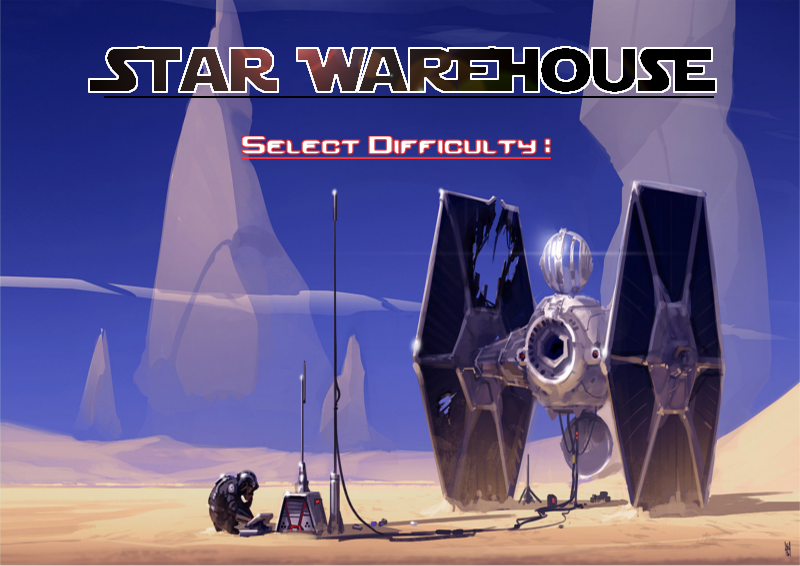
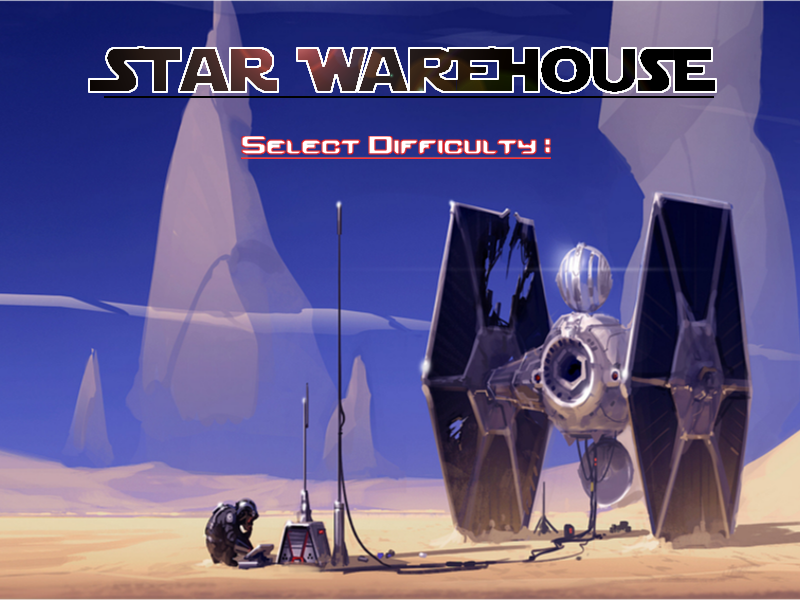
Background image sizes fix to 600 and added map

diff --git a/src/Map.java b/src/Map.java
@@ -1276,107 +1276,97 @@ public class Map implements Serializable {
 				
 			}	else if (randMapNum == 7){
 				//MEDIUM MAP 7
-				this.grid = new int[10][12];
-				for (int x=0; x < 10; x++){
+				this.grid = new int[9][12];
+				for (int x=0; x < 9; x++){
 					grid[x][0]=WALL;
 					grid[x][11]=WALL;
 				}
 				for (int y=0; y < 12; y++){
 					grid[0][y]=WALL;
-					grid[9][y]=WALL;
+					grid[8][y]=WALL;
 				}
-				grid[1][1] = WALL;
+				grid[1][1] = EMPTY;
 				grid[2][1] = WALL;
 				grid[3][1] = WALL;
 				grid[4][1] = WALL;
 				grid[5][1] = WALL;
 				grid[6][1] = WALL;
-				grid[7][1] = WALL;
-				grid[8][1] = WALL;
+				grid[7][1] = EMPTY;
 				
 				grid[1][2] = WALL;
 				grid[2][2] = WALL;
 				grid[3][2] = EMPTY;
-				grid[4][2] = WALL;
-				grid[5][2] = GOAL;
-				grid[6][2] = EMPTY;
-				grid[7][2] = GOAL;
-				grid[8][2] = WALL;
+				grid[4][2] = EMPTY;
+				grid[5][2] = EMPTY;
+				grid[6][2] = WALL;
+				grid[7][2] = EMPTY;
 				
 				grid[1][3] = WALL;
 				grid[2][3] = EMPTY;
-				grid[3][3] = EMPTY;
-				grid[4][3] = BOX;
+				grid[3][3] = BOX;
+				grid[4][3] = WALL;
 				grid[5][3] = EMPTY;
-				grid[6][3] = GOAL;
-				grid[7][3] = EMPTY;
-				grid[8][3] = WALL;
+				grid[6][3] = WALL;
+				grid[7][3] = WALL;
 				
 				grid[1][4] = WALL;
 				grid[2][4] = EMPTY;
-				grid[3][4] = BOX;
-				grid[4][4] = WALL;
-				grid[5][4] = GOAL;
-				grid[6][4] = BOX;
-				grid[7][4] = GOAL;
-				grid[8][4] = WALL;
+				grid[3][4] = EMPTY;
+				grid[4][4] = GOAL;
+				grid[5][4] = EMPTY;
+				grid[6][4] = PLAYER;
+				grid[7][4] = WALL;
 				
 				grid[1][5] = WALL;
-				grid[2][5] = EMPTY;
-				grid[3][5] = EMPTY;
-				grid[4][5] = BOX;
-				grid[5][5] = EMPTY;
-				grid[6][5] = GOAL;
-				grid[7][5] = EMPTY;
-				grid[8][5] = WALL;
+				grid[2][5] = WALL;
+				grid[3][5] = GOAL;
+				grid[4][5] = GOAL;
+				grid[5][5] = GOAL;
+				grid[6][5] = EMPTY;
+				grid[7][5] = WALL;
 				
 				grid[1][6] = WALL;
-				grid[2][6] = WALL;
+				grid[2][6] = EMPTY;
 				grid[3][6] = EMPTY;
-				grid[4][6] = WALL;
-				grid[5][6] = BOX;
-				grid[6][6] = EMPTY;
+				grid[4][6] = BOX;
+				grid[5][6] = EMPTY;
+				grid[6][6] = WALL;
 				grid[7][6] = WALL;
-				grid[8][6] = WALL;
 				
 				grid[1][7] = WALL;
 				grid[2][7] = EMPTY;
 				grid[3][7] = BOX;
-				grid[4][7] = EMPTY;
-				grid[5][7] = EMPTY;
+				grid[4][7] = WALL;
+				grid[5][7] = WALL;
 				grid[6][7] = WALL;
-				grid[7][7] = WALL;
-				grid[8][7] = EMPTY;
+				grid[7][7] = EMPTY;
 				
 				grid[1][8] = WALL;
 				grid[2][8] = EMPTY;
 				grid[3][8] = EMPTY;
-				grid[4][8] = EMPTY;
-				grid[5][8] = WALL;
+				grid[4][8] = BOX;
+				grid[5][8] = EMPTY;
 				grid[6][8] = WALL;
 				grid[7][8] = EMPTY;
-				grid[8][8] = EMPTY;
 				
 				grid[1][9] = WALL;
-				grid[2][9] = PLAYER;
+				grid[2][9] = WALL;
 				grid[3][9] = EMPTY;
-				grid[4][9] = WALL;
-				grid[5][9] = WALL;
-				grid[6][9] = EMPTY;
+				grid[4][9] = EMPTY;
+				grid[5][9] = EMPTY;
+				grid[6][9] = WALL;
 				grid[7][9] = EMPTY;
-				grid[8][9] = EMPTY;
 				
-				grid[1][10] = WALL;
+				grid[1][10] = EMPTY;
 				grid[2][10] = WALL;
 				grid[3][10] = WALL;
 				grid[4][10] = WALL;
-				grid[5][10] = EMPTY;
-				grid[6][10] = EMPTY;
+				grid[5][10] = WALL;
+				grid[6][10] = WALL;
 				grid[7][10] = EMPTY;
-				grid[8][10] = EMPTY;
 				
-				player_x=2;
-				player_y=9;	
+				player_x=6;
+				player_y=4;	
 				
 			}
 			
